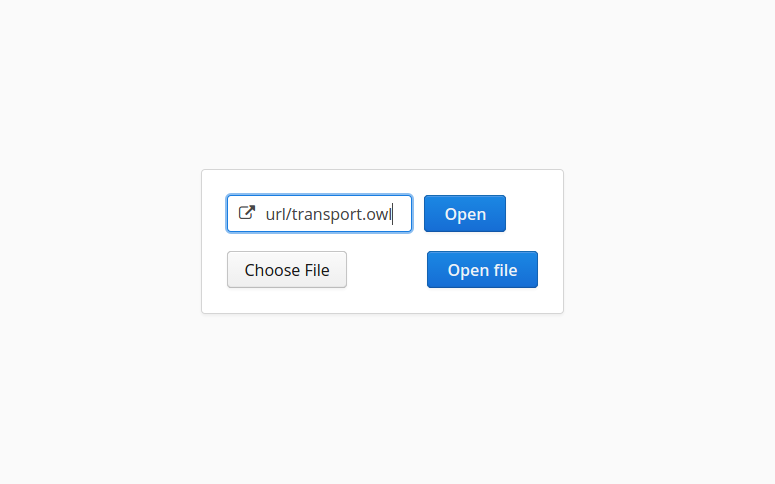
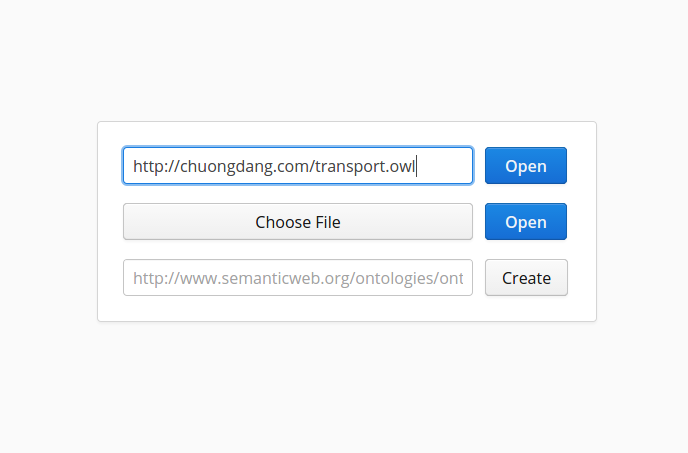
write about entryView

Changed region(s): [[0.1526, 0.3091, 0.8241, 0.649], [0.7326, 0.5872, 0.7936, 0.649]]

diff --git a/Chapters/xaydunghethong.tex b/Chapters/xaydunghethong.tex
@@ -71,3 +71,28 @@ public static HttpSession getHttpSession() {
 Mỗi lần chúng ta vào trang url của ứng dụng hay refresh thì vòng đời của các View sẽ diễn ra như trong hình 4.1. Việc kiểm tra các điều kiện đều nằm trong phương thức \textbf{updateContent} của OWLEditorUI.
 \textbf{Tóm lại} OWLEditorUI là nơi sẽ cung cấp các thành phần lõi của hệ thống như OWLEditorKit, EventBus và HttpSession. Tiếp theo, chúng em sẽ trình bày cách xây dựng các View và thành phần của chúng.
 \section{Xây dựng EntryView}
+\begin{figure}[h!]
+	\centering
+	\frame{\includegraphics[width=145mm]{Figures/owleditor_entryview.png}}
+	\caption{EntryView đã xây dựng\label{overflow}}
+\end{figure}
+Như được thiết kế thì giao diện của EntryView tương đối đơn giản, chỉ có 1 panel chứa các input để nạp ontology theo 3 tùy chọn:
+\begin{enumerate}
+\item Nạp ontology qua URL. URL này bắt buộc phải là một tài liệu được định dạng theo tiêu chuẩn OWL 2 (RDF/XML, OWL/XML, FunctionalSyntax/XML,...).
+\item Upload một tập tin chứa tài liệu Ontology và nạp tài liệu ontology này vào.
+\item Tạo mới một tài liệu ontology.
+\end{enumerate}
+Việc xây dựng các input trên cũng khá đơn giản, đối với việc nạp từ URL chỉ cần một thành phần \textit{TextField}, một \textit{Button} được Vaadin cung cấp sẵn để xây dựng. Sau khi click "Open", nếu URL chứa tài liệu hợp lệ thì nó sẽ được nạp vào trong OWLEditorKit, nếu đây là lần đầu OWLEditorKit được sử dụng và chưa được lưu trong HttpSession thì lưu nó vào Session và cuối cùng là chuyển giao diện qua \textit{MainView} (Hình 4.1). Quá trình tương tự cũng xảy ra khi nạp tài liệu từ tập tin upload và tạo mới tài liệu, riêng việc tạo tài liệu thì chúng ta có thể tùy chọn đặt 1 IRI cho nó trong TextField ở dòng cuối. Upload file cũng là một plugin được cung cấp qua \cite{vaadindirectory} việc sử dụng cũng khá dễ.
+\begin{verbatim}
+UploadField uf = new UploadField();
+// code bên trong "Open" Button ClickListener
+File file = (File) uf.getValue();
+OWLEditorUI.getEditorKit() // Nạp ontology vào trong OWLEditorKit
+           .loadOntologyFromOntologyDocument(IRI.create(file));
+OWLEditorUI.getHttpSession() // lưu OWLEditorKit trong Session
+           .setAttribute("OWLEditorKit", OWLEditorUI.getEditorKit());
+// Đặt giao diện là MainView 
+UI.getCurrent().setContent(new MainView());                    
+\end{verbatim}
+\section{Xây dựng MainView}
+
